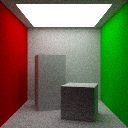
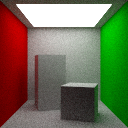
Reset the random number generator after each horizontal line

diff --git a/grayt/tracer.go b/grayt/tracer.go
@@ -6,7 +6,7 @@ import (
 	"sync/atomic"
 )
 
-var rng = rand.New(rand.NewSource(1))
+var rng = rand.New(rand.NewSource(-1))
 
 func traceImage(pxWide, pxHigh int, accel accelerationStructure, cam camera, quality int, completed *uint64) image.Image {
 
@@ -16,6 +16,7 @@ func traceImage(pxWide, pxHigh int, accel accelerationStructure, cam camera, qua
 	pxPitch := 2.0 / float64(pxWide)
 	for i := 0; i < quality; i++ {
 		for pxY := 0; pxY < pxHigh; pxY++ {
+			rng.Seed(int64(i*pxHigh + pxY))
 			for pxX := 0; pxX < pxWide; pxX++ {
 				x := (float64(pxX-pxWide/2) + rng.Float64()) * pxPitch
 				y := (float64(pxY-pxHigh/2) + rng.Float64()) * pxPitch * -1.0
